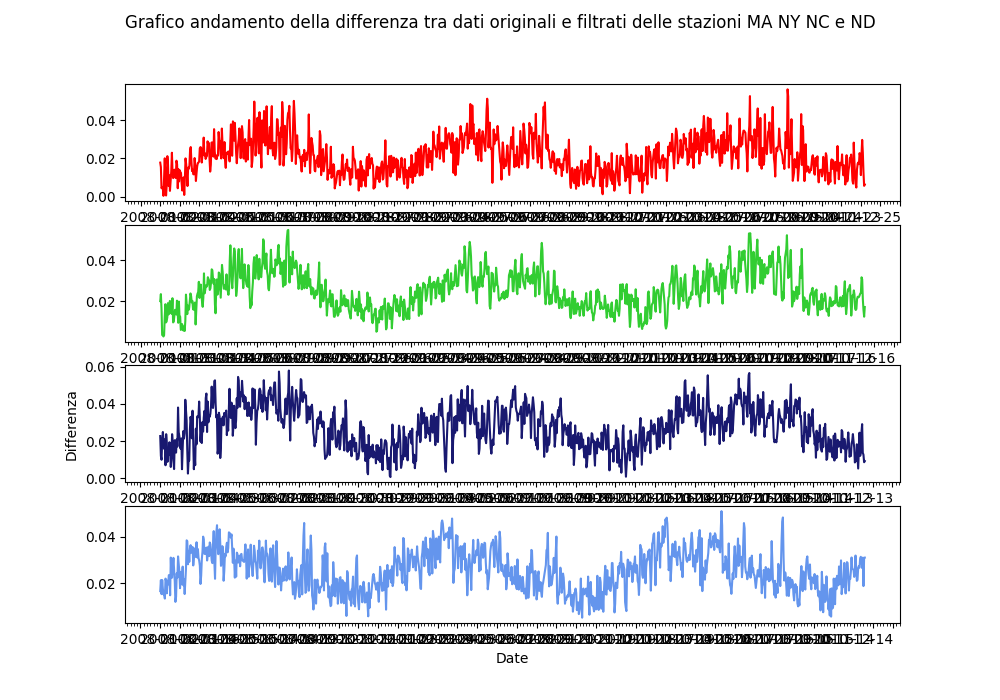
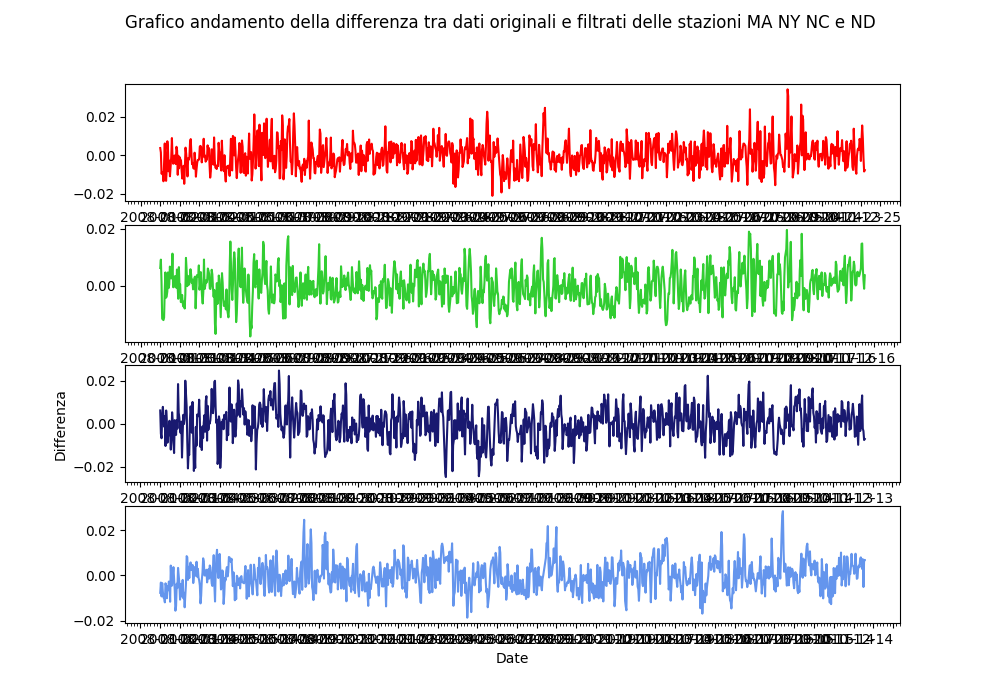
...

diff --git a/Scriptpython/studioStati.py b/Scriptpython/studioStati.py
@@ -52,6 +52,7 @@ np.set_printoptions(threshold=sys.maxsize)
 
 meanO3AZ , dateAZ,arr  =f.meanDay(stati[0])
 meanO3CA , dateCA,arr1  =f.meanDay(stati[2])
+meanO3CA=np.append(meanO3CA,0.01672)
 meanO3CT , dateCT,arr =f.meanDay(stati[4])
 meanO3DC , dateDC ,arr =f.meanDay(stati[5])
 meanO3FL , dateFL ,arr =f.meanDay(stati[6])
@@ -74,14 +75,14 @@ meanO3TX , dateTX ,arr =f.meanDay(stati[30])
 
 
 print('dateCA',' Lunghezza ',len(dateCA))
-print('meanO3CA' ,' Lunghezza ',len(meanO3CA))
-print('arr1' ,' Lunghezza ',len(arr))
+print('meanO3CA',' Lunghezza ',len(meanO3CA))
+print( 'arr1'  ,' Lunghezza ',len(arr1))
 
 '''Andamento Temporale'''
 if False:
     #WEST COAST AND CENTER
     title='Andamenti Oregon, California, Arizona, Texas, Oklahoma'
-    #f.graphInTime5(dateOR,meanO3OR,dateCA,meanO3CA,dateAZ,meanO3AZ,dateTX,meanO3TX,dateOK,meanO3OK,title)
+    f.graphInTime5(dateOR,meanO3OR,dateCA,meanO3CA,dateAZ,meanO3AZ,dateTX,meanO3TX,dateOK,meanO3OK,title)
     #EAST COAST AND CENTER
     title='Andamenti Maine, Maryland, Massachusetts, Pennsylvania, New York'
     f.graphInTime5(dateME,meanO3ME,dateMD,meanO3MD,dateMA,meanO3MA,datePA,meanO3PA,dateNY,meanO3NY,title)
@@ -118,7 +119,7 @@ coffTX , cofFreqTX , maxTX = f.trFour_freq(meanO3TX)
 if False:
     #WEST COAST AND CENTER
     title='Spettri Oregon, California, Arizona, Texas, Oklahoma'
-    #f.graphSpettri5(coffOR , cofFreqOR,coffCA , cofFreqCA,coffAZ , cofFreqAZ,coffTX , cofFreqTX,coffOK , cofFreqOK,title)
+    f.graphSpettri5(coffOR , cofFreqOR,coffCA , cofFreqCA,coffAZ , cofFreqAZ,coffTX , cofFreqTX,coffOK , cofFreqOK,title)
     #EAST COAST
     title='Spettri Maine, Maryland, Massachusetts, Pennsylvania, New York'
     f.graphSpettri5(coffME , cofFreqME,coffMD , cofFreqMD,coffMA , cofFreqMA,coffPA , cofFreqPA,coffNY , cofFreqNY,title)
@@ -175,45 +176,46 @@ if False:
 
 
 '''Filtri '''
-FilAZ=f.trInv(coffAZ,1e4,meanO3AZ)
-#FilCA=f.trInv(coffCA,1e4,meanO3CA)
-FilCT=f.trInv(coffCT,1e4,meanO3CT)
-FilDC=f.trInv(coffDC,1e4,meanO3DC)
-FilFL=f.trInv(coffFL,1e4,meanO3FL)
-FilIL=f.trInv(coffIL,1e4,meanO3IL)
-FilME=f.trInv(coffME,1e4,meanO3ME)
-FilMD=f.trInv(coffMD,1e4,meanO3MD)
-FilMA=f.trInv(coffMA,1e4,meanO3MA)
-FilNY=f.trInv(coffNY,1e4,meanO3NY)
-FilNC=f.trInv(coffNC,1e4,meanO3NC)
-FilND=f.trInv(coffND,1e4,meanO3ND)
-FilOK=f.trInv(coffOK,1e4,meanO3OK)
-FilOR=f.trInv(coffOR,1e4,meanO3OR)
-FilPA=f.trInv(coffPA,1e4,meanO3PA)
-FilTX=f.trInv(coffTX,1e4,meanO3TX)
+FilAZ=f.trInv(coffAZ,0.3,meanO3AZ)
+FilCA=f.trInv(coffCA,0.7,meanO3CA)
+FilCT=f.trInv(coffCT,0.6,meanO3CT)
+FilDC=f.trInv(coffDC,0.4,meanO3DC)
+FilFL=f.trInv(coffFL,0.5,meanO3FL)
+FilIL=f.trInv(coffIL,0.4,meanO3IL)
+FilME=f.trInv(coffME,0.5,meanO3ME)
+FilMD=f.trInv(coffMD,1,meanO3MD)
+FilMA=f.trInv(coffMA,1,meanO3MA)
+FilNY=f.trInv(coffNY,0.4,meanO3NY)
+FilNC=f.trInv(coffNC,1,meanO3NC)
+FilND=f.trInv(coffND,1,meanO3ND)
+FilOK=f.trInv(coffOK,0.5,meanO3OK)
+FilOR=f.trInv(coffOR,1,meanO3OR)
+FilPA=f.trInv(coffPA,1,meanO3PA)
+FilTX=f.trInv(coffTX,0.3,meanO3TX)
 
 
 '''Dati originali rispetto a filtrati'''
 if False:
     title='Grafico dati e dati filtrati a confronto per AZ CA CT e DC'
-    #f.graphFil(dateAZ,meanO3AZ,FilAZ,dateCA,meanO3CA,FilCA,dateCT,meanO3CT,FilCT,dateDC,meanO3DC,FilDC,title)
+    f.graphFil(dateAZ,meanO3AZ,FilAZ,dateCA,meanO3CA,FilCA,dateCT,meanO3CT,FilCT,dateDC,meanO3DC,FilDC,title)
+    
     title='Grafico dati e dati filtrati a confronto per FL IL ME e MD'
     f.graphFil(dateFL,meanO3FL,FilFL,dateIL,meanO3IL,FilIL,dateME,meanO3ME,FilME,dateMD,meanO3MD,FilMD,title)
     title='Grafico dati e dati filtrati a confronto per MA NY NC e ND'
     f.graphFil(dateMA,meanO3MA,FilMA,dateNY,meanO3NY,FilNY,dateNC,meanO3NC,FilNC,dateND,meanO3ND,FilND,title)
     title='Grafico dati e dati filtrati a confronto per OK OR PA e TX'
     f.graphFil(dateOK,meanO3OK,FilOK,dateOR,meanO3OR,FilOR,datePA,meanO3PA,FilPA,dateTX,meanO3TX,FilTX,title)
-
+    
 '''Rumori'''
 
 if False:
-    title='Grafico andamento della differenza tra dati originali e filtrati delle stazioni AZ CA CT e DC'
-    #f.graphRumori(dateAZ,meanO3AZ,FilAZ,dateCA,meanO3CA,FilCA,dateCT,meanO3CT,FilCT,dateDC,meanO3DC,FilDC,title)
-    title='Grafico andamento della differenza tra dati originali e filtrati delle stazioni FL IL ME e MD'
+    title='Grafico andamento della differenza tra dati originali e filtrati degli stati AZ CA CT e DC'
+    f.graphRumori(dateAZ,meanO3AZ,FilAZ,dateCA,meanO3CA,FilCA,dateCT,meanO3CT,FilCT,dateDC,meanO3DC,FilDC,title)
+    title='Grafico andamento della differenza tra dati originali e filtrati degli stati FL IL ME e MD'
     f.graphRumori(dateFL,meanO3FL,FilFL,dateIL,meanO3IL,FilIL,dateME,meanO3ME,FilME,dateMD,meanO3MD,FilMD,title)
-    title='Grafico andamento della differenza tra dati originali e filtrati delle stazioni MA NY NC e ND'
+    title='Grafico andamento della differenza tra dati originali e filtrati degli stati MA NY NC e ND'
     f.graphRumori(dateMA,meanO3MA,FilMA,dateNY,meanO3NY,FilNY,dateNC,meanO3NC,FilNC,dateND,meanO3ND,FilND,title)
-    title='Grafico andamento della differenza tra dati originali e filtrati delle stazioni OK OR PA e TX'
+    title='Grafico andamento della differenza tra dati originali e filtrati degli stati OK OR PA e TX'
     f.graphRumori(dateOK,meanO3OK,FilOK,dateOR,meanO3OR,FilOR,datePA,meanO3PA,FilPA,dateTX,meanO3TX,FilTX,title)
 
     '''Cerca che tipo di rumore è'''

diff --git a/Scriptpython/Funzioni.py b/Scriptpython/Funzioni.py
@@ -51,16 +51,7 @@ inoltre per evitare che rilevazione con lo stesso codice di stazione ma presa in
       codePrecStaz = h.cStaz   
       stazioni[-1].addril(h)    
   return stazioni
-
-
-def takeArr(staz):
-    average = np.empty(0)
-    date = np.empty(0)
-    for h in staz.arrRil:
-        average = np.append(average ,h.mean)
-        date = np.append(date ,h.data)
-        
-    return date , average   
+  
 
 def getStati(arRil):
     '''
@@ -99,6 +90,15 @@ riesco ad aggiungere le rilevazioni nel giusto stato facendo scorrere gli indici
             
     return stati ,arrCod
 
+def takeArr(staz):
+    average = np.empty(0)
+    date = np.empty(0)
+    for h in staz.arrRil:
+        average = np.append(average ,h.mean)
+        date = np.append(date ,h.data)
+        
+    return date , average 
+
 def meanDay(stato):
     aMeanday=np.empty(0)
     aDate=np.empty(0)
@@ -124,7 +124,7 @@ def meanDay(stato):
             date=np.append(date,aDate[i])
             rip=np.append(rip,(i+1)-j)
             break
-            '''metti il break'''
+            
         if(aDate[i]!=aDate[i+1]):
             date=np.append(date,aDate[i])
             rip=np.append(rip,i-j)
@@ -153,7 +153,7 @@ def meanDay(stato):
             arr=np.empty(0)
             
         
-    return aMediaDay , date ,arr
+    return aMediaDay , date ,rip1
 
 def graphInTime2(arrx1,arry1,arrx2,arry2,title,cl):
     fig, (ax1, ax2) = plt.subplots(2)
@@ -182,34 +182,30 @@ def graphInTime5(arrx1,arry1,arrx2,arry2,arrx3,arry3, arrx4,arry4,arrx5,arry5,ti
     ax3.plot(arrx3, arry3, color='cyan')
     ax4.plot(arrx4, arry4, color='midnightblue')
     ax5.plot(arrx5, arry5, color='orchid')
-    ax1.set_ylabel('Ozono CT')
-    ax2.set_ylabel('Ozono MD')
     ax1.xaxis.set_major_locator(MultipleLocator(30))
     ax1.xaxis.set_minor_locator(MultipleLocator(5))
     ax2.xaxis.set_major_locator(MultipleLocator(30))
     ax2.xaxis.set_minor_locator(MultipleLocator(5))
-    ax3.set_ylabel('Ozono NY')
-    ax4.set_ylabel('Ozono PA')
+    ax3.set_ylabel('Ozono [ppm]')
     ax3.xaxis.set_major_locator(MultipleLocator(30))
     ax3.xaxis.set_minor_locator(MultipleLocator(5))
     ax4.xaxis.set_major_locator(MultipleLocator(30))
     ax4.xaxis.set_minor_locator(MultipleLocator(5))
     ax5.set_xlabel('Date')
-    ax5.set_ylabel('Ozono VA')
     ax5.xaxis.set_major_locator(MultipleLocator(30))
     ax5.xaxis.set_minor_locator(MultipleLocator(5))
     fig.set_figheight(7)
     fig.set_figwidth(10)
     plt.savefig(title)
     plt.show()
-    
+    #Prova legend
     return
     
 
 def trFour_freq(arrMean):
     #sNyqu=0.5
-    cofft=fft.fft(arrMean)
-    cofFreq=fft.fftfreq(len(cofft) , d=1)
+    cofft=fft.rfft(arrMean)
+    cofFreq=fft.rfftfreq(len(cofft) , d=1)
     #cofrshift = fft.fftshift(cofFreq)
     #cofftshift = fft.fftshift(cofft)
     mod = np.absolute(cofft)**2
@@ -229,14 +225,14 @@ def graphSpettri5(acof1,afreq1,acof2,afreq2,acof3,afreq3,acof4,afreq4,acof5,afre
     ax3.plot(afreq3[:int(acof3.size/2)],np.absolute(acof3[:int(acof3.size/2)])**2,color='cyan')
     ax3.set_xscale('log')
     ax3.set_yscale('log')
-    ax3.set_ylabel('$|c_{FFT}|^2$ [$\mu g^2/m^6$]') #Migliora
+    ax3.set_ylabel('$|c_{FFT}|^2$')
     ax4.plot(afreq4[:int(acof4.size/2)],np.absolute(acof4[:int(acof4.size/2)])**2,color='midnightblue')
     ax4.set_xscale('log')
     ax4.set_yscale('log')
     ax5.plot(afreq5[:int(acof5.size/2)],np.absolute(acof5[:int(acof5.size/2)])**2,color='orchid')
     ax5.set_xscale('log')
     ax5.set_yscale('log')
-    ax5.set_xlabel('Frequenze')
+    ax5.set_xlabel('Frequenze [Hz]')
     fig.set_figheight(7)
     fig.set_figwidth(10)
     plt.show()
@@ -255,14 +251,14 @@ def graphSpettri5Per(acof1,afreq1,acof2,afreq2,acof3,afreq3,acof4,afreq4,acof5,a
     ax3.plot(1/afreq3[1:int(acof3.size/2)],np.absolute(acof3[1:int(acof3.size/2)])**2,color='cyan')
     ax3.set_xscale('log')
     ax3.set_yscale('log')
-    ax3.set_ylabel('$|c_{FFT}|^2$ [$\mu g^2/m^6$]')
+    ax3.set_ylabel('$|c_{FFT}|^2$')
     ax4.plot(1/afreq4[1:int(acof4.size/2)],np.absolute(acof4[1:int(acof4.size/2)])**2,color='midnightblue')
     ax4.set_xscale('log')
     ax4.set_yscale('log')
     ax5.plot(1/afreq5[1:int(acof5.size/2)],np.absolute(acof5[1:int(acof5.size/2)])**2,color='orchid')
     ax5.set_xscale('log')
     ax5.set_yscale('log')
-    ax5.set_xlabel('Periodi')
+    ax5.set_xlabel('Periodo [s]')
     fig.set_figheight(7)
     fig.set_figwidth(10)
     plt.show()
@@ -273,13 +269,12 @@ def graphSpettri5Per(acof1,afreq1,acof2,afreq2,acof3,afreq3,acof4,afreq4,acof5,a
 def trInv(coff, fil, mean):
     #funzione che mi restituisce la trasformata inversa con i coeff filtrati in ordine:
     #coff array spettro,fil valore di soglia,mean medie giornaliere
-    
     mask = np.absolute(coff)**2 < fil
     cofFil = coff.copy()
     cofFil[mask] = 0
-    arrFil = fft.ifft(cofFil, n=len(mean))
+    arrFil = fft.irfft(cofFil, n=len(mean))
     return arrFil
-
+#Decidi se immaginari o no, dimezza i periodi in stati e stazioni
 
 def graphFil(data1,amean1,afil1,data2,amean2,afil2,data3,amean3,afil3,data4,amean4,afil4,title):
     #Crea grafici dei dati filtrati rispetto agli originali

diff --git a/Scriptpython/studio5Stati.py b/Scriptpython/studio5Stati.py
@@ -113,24 +113,30 @@ if False:
 
 '''Filtri'''
 #sistema valori di soglia
-FilCT1=f.trInv(coffCT1,1e5,CT1Mean)
-FilCT2=f.trInv(coffCT2,1e5,CT2Mean)
-FilCT3=f.trInv(coffCT3,1e5,CT3Mean)
-FilNY8=f.trInv(coffNY8,1e6,NY8Mean)
-FilNY9=f.trInv(coffNY9,1e6,NY9Mean)
-FilPA13=f.trInv(coffPA13,2e6,PA13Mean)
-FilPA15=f.trInv(coffPA15,2e6,PA15Mean)
-FilPA20=f.trInv(coffPA20,2e6,PA20Mean)
-FilPA24=f.trInv(coffPA24,2e6,PA24Mean)#togli una di PA
-FilVA29=f.trInv(coffVA29,5e7,VA29Mean)#togli una di VA
-FilVA31=f.trInv(coffVA31,5e7,VA31Mean)
-FilVA33=f.trInv(coffVA33,5e7,VA33Mean)
-FilVA34=f.trInv(coffVA34,5e7,VA34Mean)
-FilMD5=f.trInv(coffMD5,2e6,MD5Mean)
+FilCT1=f.trInv(coffCT1,0.3,CT1Mean)
+FilCT2=f.trInv(coffCT2,0.3,CT2Mean)
+FilCT3=f.trInv(coffCT3,0.3,CT3Mean)
+FilNY8=f.trInv(coffNY8,0.45,NY8Mean)#0.5 sinu
+FilNY9=f.trInv(coffNY9,0.45,NY9Mean)
+FilPA13=f.trInv(coffPA13,0.25,PA13Mean)
+FilPA15=f.trInv(coffPA15,0.2,PA15Mean)
+FilPA20=f.trInv(coffPA20,0.3,PA20Mean)
+FilPA24=f.trInv(coffPA24,0.25,PA24Mean)
+FilVA29=f.trInv(coffVA29,0.1,VA29Mean)#togli una di PA
+FilVA31=f.trInv(coffVA31,0.2,VA31Mean)
+FilVA33=f.trInv(coffVA33,0.1,VA33Mean)#togli una di VA
+FilVA34=f.trInv(coffVA34,0.15,VA34Mean)
+FilMD5=f.trInv(coffMD5,0.2,MD5Mean)
 
 '''Dati originali rispetto a filtrati'''
-
-
+if False:
+    title='Grafico dati originali e filtrati di CT1,CT2,CT3 e NY8'
+    f.graphFil(CT1Date,CT1Mean,FilCT1,CT2Date,CT2Mean,FilCT2,CT3Date,CT3Mean,FilCT3,NY8Date,NY8Mean,FilNY8,title)
+    title='Grafico dati originali e filtrati di NY9,PA13,PA15 e PA24'
+    f.graphFil(NY9Date,NY9Mean,FilNY9,PA13Date,PA13Mean,FilPA13,PA15Date,PA15Mean,FilPA15,PA24Date,PA24Mean,FilPA24,title)
+    title='Grafico dati originali e filtrati di VA29,VA31,VA34 e MD5'
+    f.graphFil(VA29Date,VA29Mean,FilVA29,VA31Date,VA31Mean,FilVA31,VA34Date,VA34Mean,FilVA34,MD5Date,MD5Mean,FilMD5,title)
+    
 
 '''Rumori'''
 if False:
@@ -143,3 +149,4 @@ if False:
     
     '''Individua tipo di rumore con funzione'''
 
+'''In analogia alla luce bianca che è formata dalla sovrapposizione di onde elettromagnetiche di tutte le frequenze visibili, se un rumore è costituito da uno spettrogramma sostanzialmente "piatto" con onde di tutte le frequenze e di intensità simile ad ogni frequenza, esso si dice rumore bianco. Il rumore bianco, ricco di alte frequenze suona "stridulo", ha un eccesso di brillantezza che ci infastidisce'''
